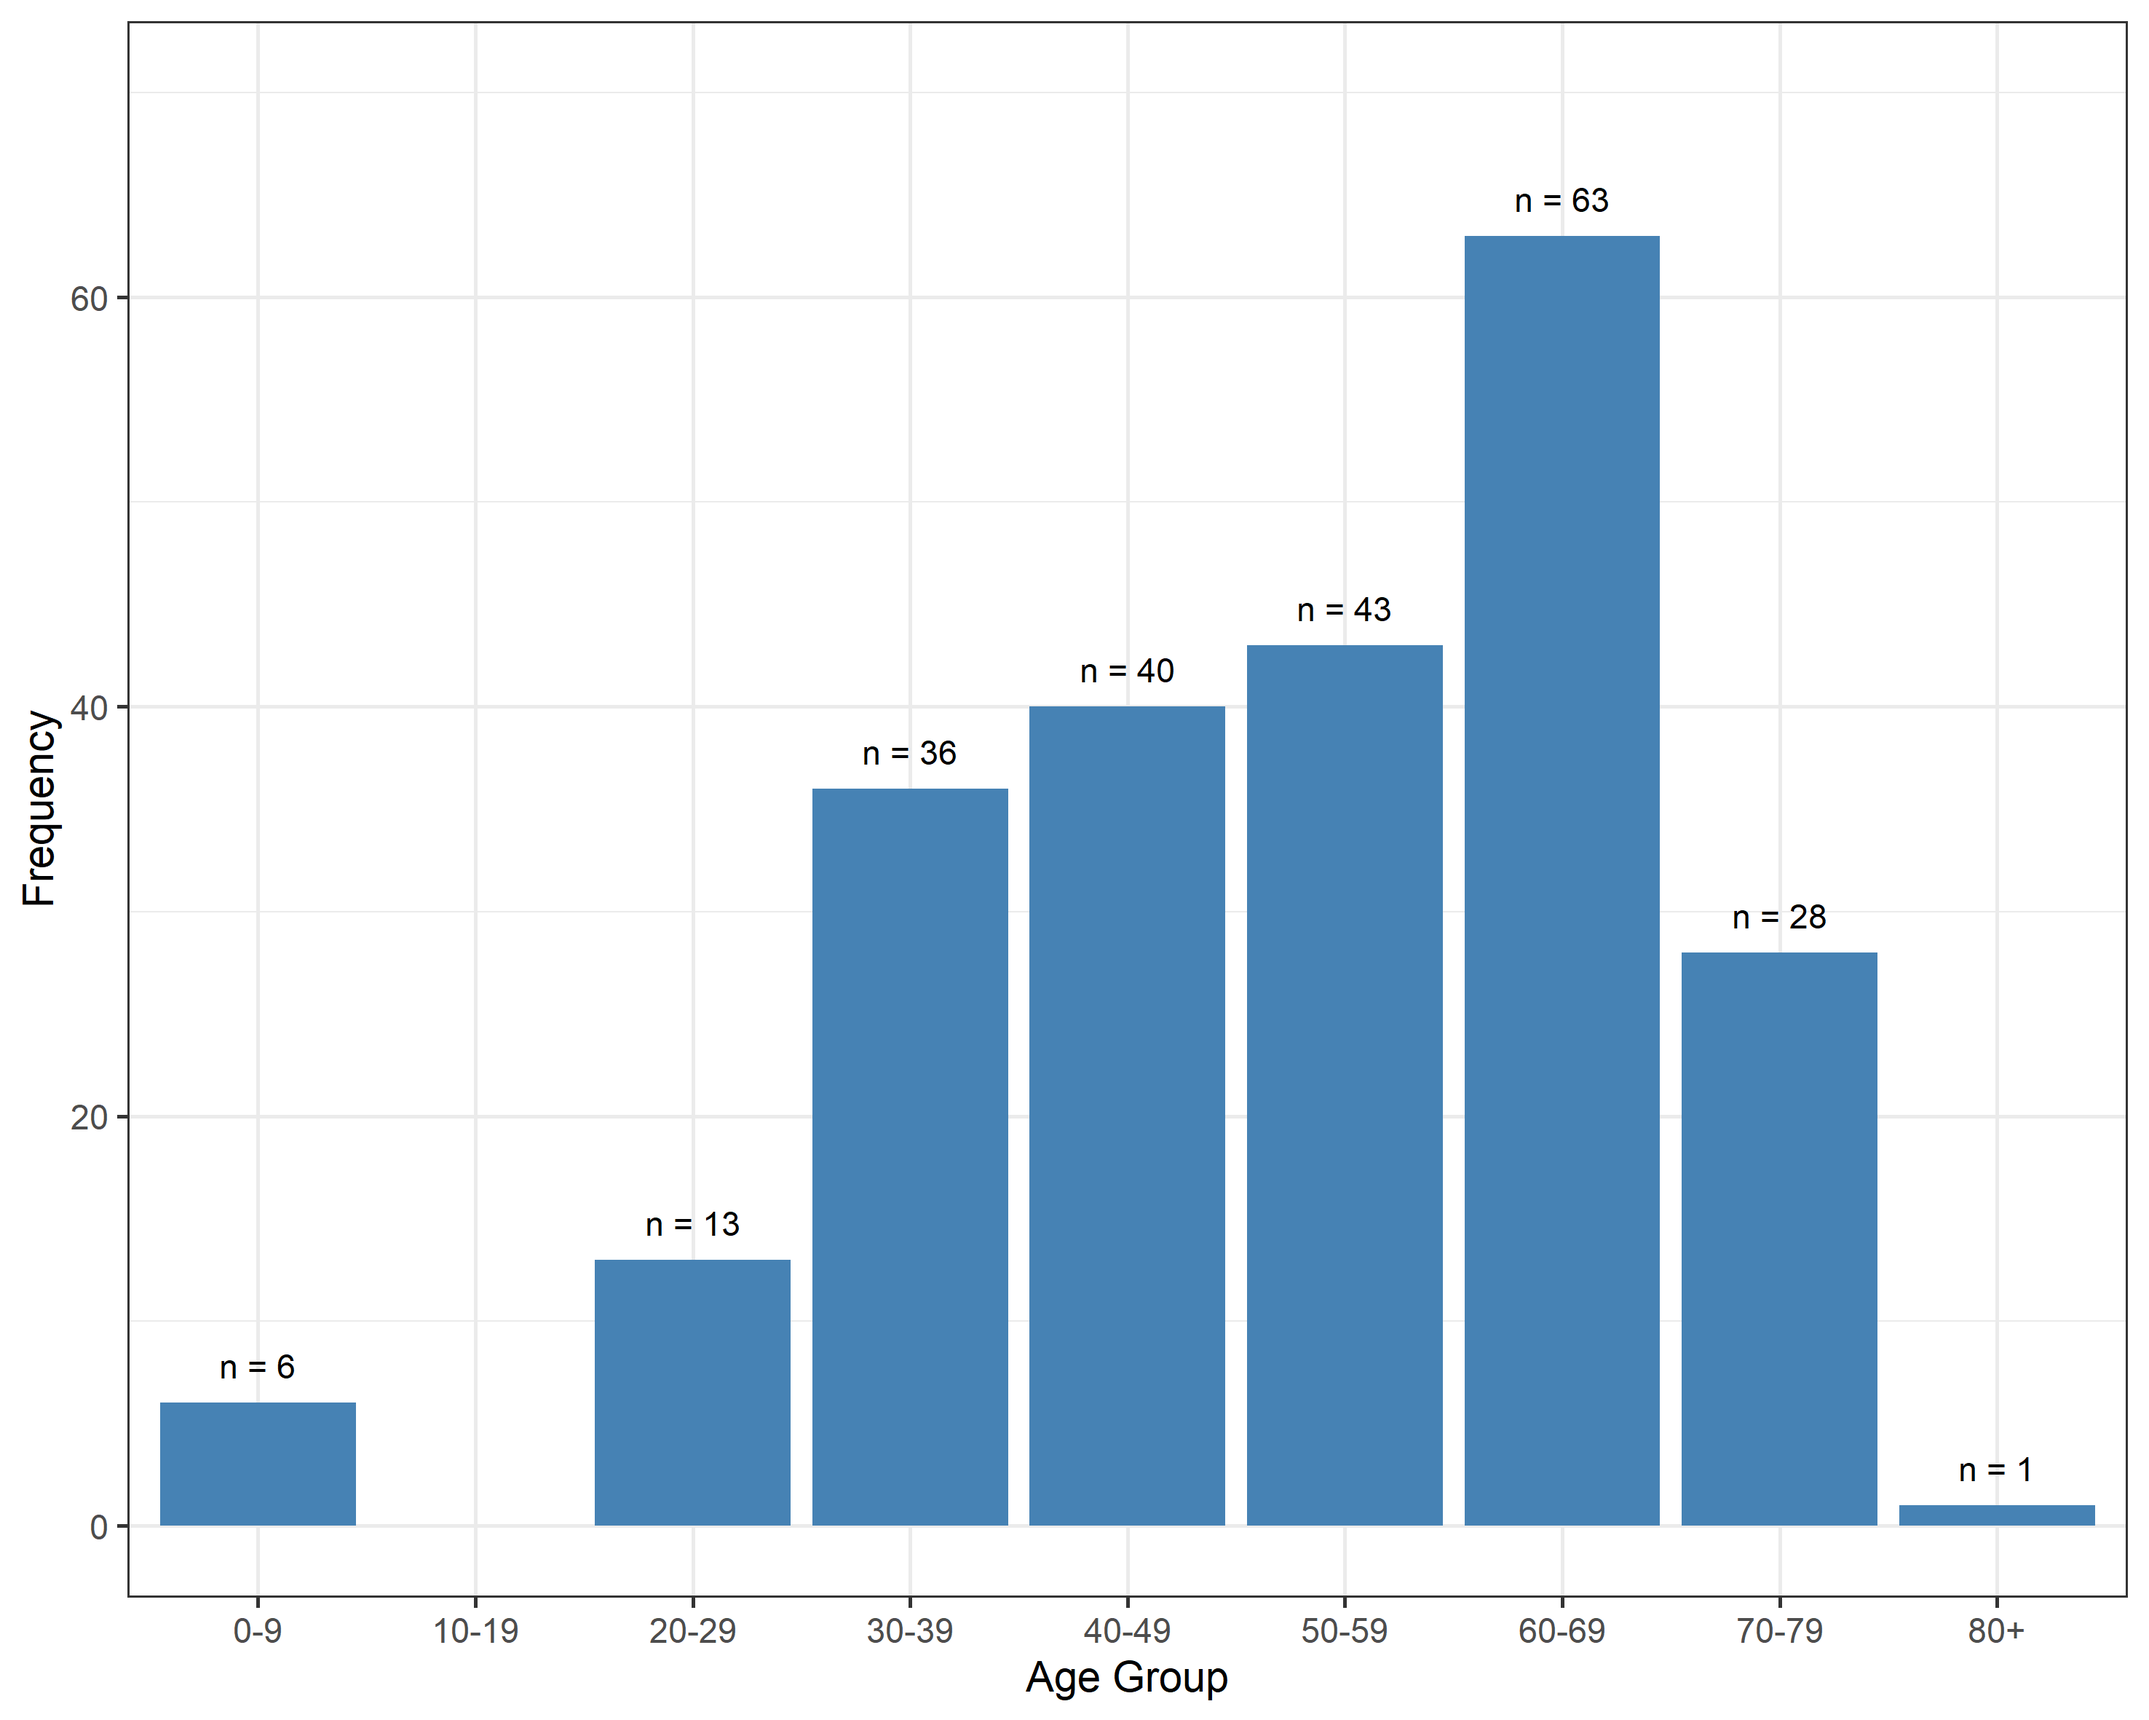
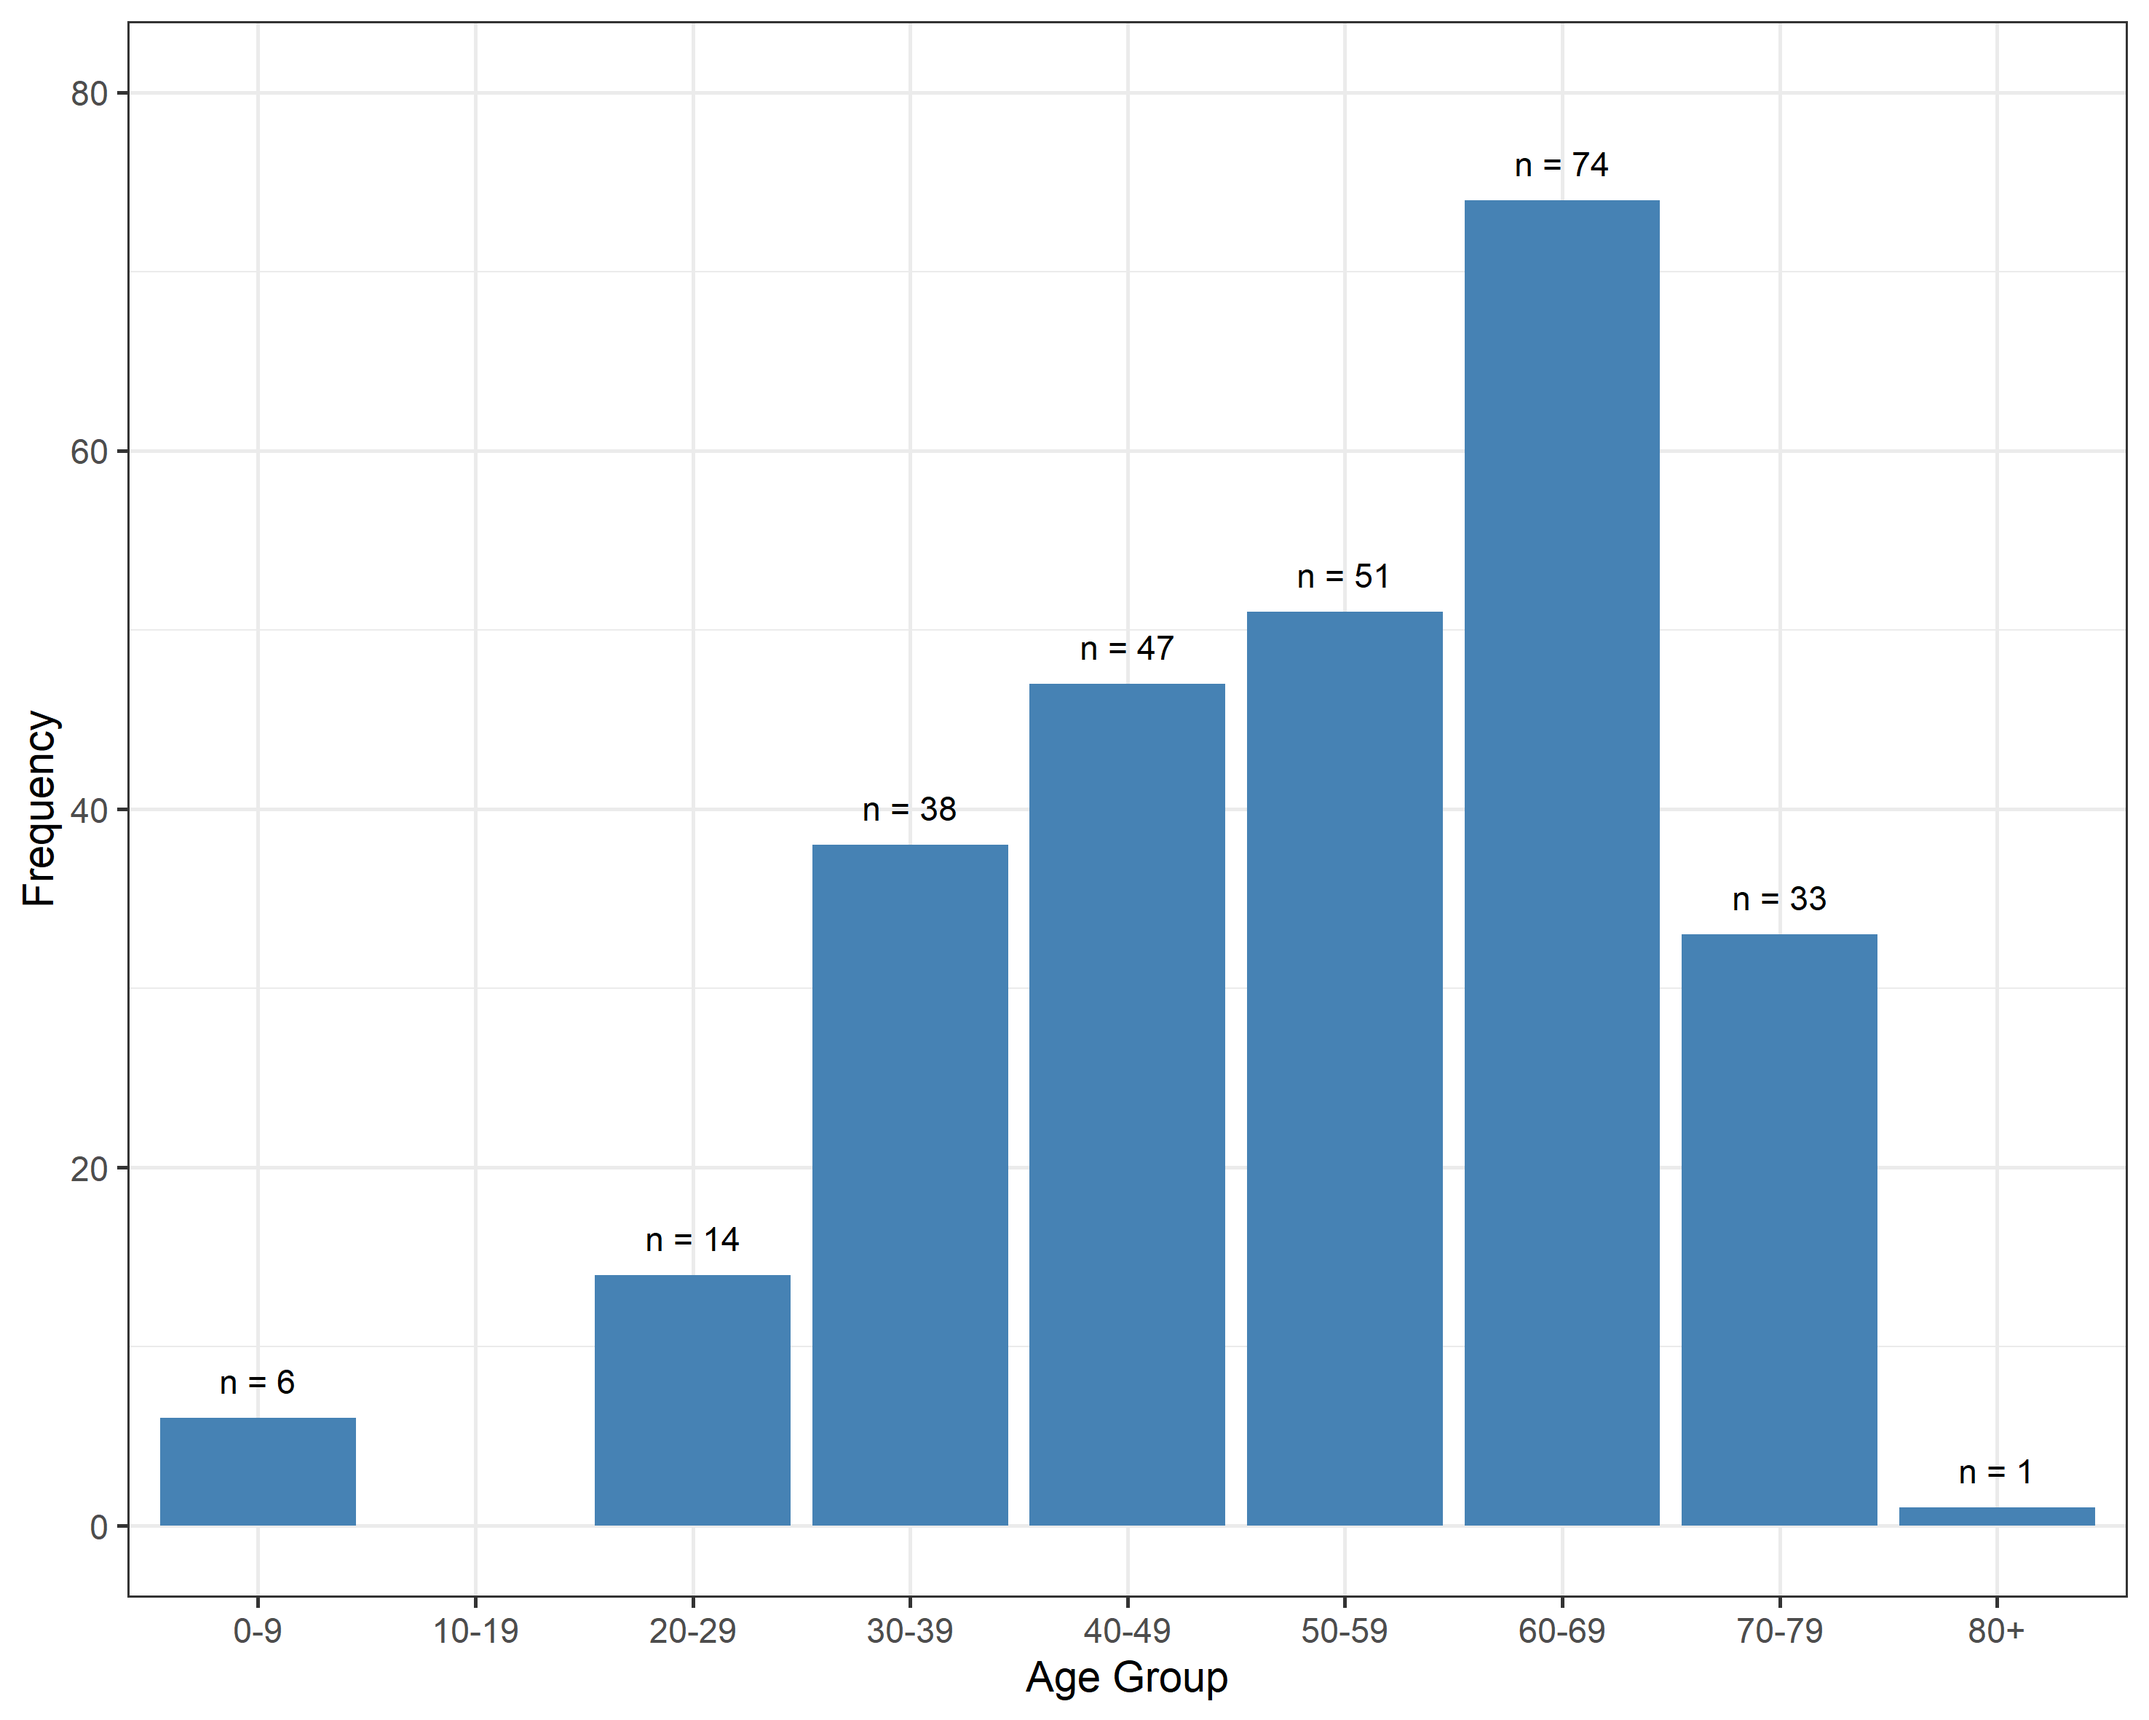
Modified results markdown

diff --git a/public/assets/locales/nl-be/markdowns/results-0.md b/public/assets/locales/nl-be/markdowns/results-0.md
@@ -1,13 +1,33 @@
-`Deze pagina is voor het laatst aangepast op 30.maart.2021 16:00.`
+`Deze pagina is voor het laatst aangepast op 31.maart.2021 16:00.`
 <br />
 
 Op deze pagina vindt u de actuele resultaten van Infectieradar.
 <br />
 
-Op 30 maart 2021 hadden we 230 deelnemers. 44.8% van de deelnemers is vrouw, en 55.2% is man.
-Een meerderheid van deelnemers (81.3%) rapporteerden dat ze nog geen Covid-19 hebben gehad. 4.3% van de deelnemers hebben in het verleden positief getest op Covid-19. 14.4% van de deelnemers hebben een sterk vermoeden dat ze Covid-19 hebben gehad.
+
+## Achtergrond Informatie
+
+Op 31 maart 2021 hadden we 264 deelnemers. 44.7% van de deelnemers is vrouw, en 55.3% is man. Een meerderheid van deelnemers (81.4%) rapporteerden dat ze nog geen Covid-19 hebben gehad. 4.2% van de deelnemers hebben in het verleden positief getest op Covid-19. 14.4% van de deelnemers hebben een sterk vermoeden dat ze Covid-19 hebben gehad.
 <br />
 
 ### Leeftijdsverdeling
 
 <img src="assets/images/agedistribution.png" width="100%">
+
+
+### Geografische verdeling
+
+<img src="assets/images/ParticipationMap.png" width="100%">
+
+
+<br />
+
+
+## Wekelijkse Symptomen
+
+Op 31 maart 2021 hadden we 219 ingevulde wekelijkse symptomen vragenlijsten van 194 deelnemers. In 63.5% van de vragenlijsten werd gerapporteerd dat er *geen symptomen* waren.
+
+### Gerapporteerde symptomen
+In de figuur hieronder geven we procentueel aan hoe vaak een bepaald symptoom is gerapporteerd in de vragenlijsten waarbij minstens één symptoom werd doorgegeven.
+
+<img src="assets/images/ReportedSymptoms_NL.png" width="100%">

diff --git a/public/assets/locales/en/markdowns/results-0.md b/public/assets/locales/en/markdowns/results-0.md
@@ -1,13 +1,34 @@
-`This page has been last updated at 30.mar.2021 16:00.`
-  
+`This page has been last updated at 31.mar.2021 16:00.`
 <br />
+
 On this page you will be able to see the latest results from the data collected by Infectieradar.be.
 <br />
 
-On March 30, 2021 we had 230 participants. 44.8% of the participants are female, and 55.2% male.
-The majority of the participants (81.3%) reported having no previous Covid-19 episode. 4.3% of the participants had a positive Covid-19 test in the past. 14.4% of the participants think they had a previous Covid-19 episode. 
+
+## Background Information
+
+On March 31, 2021 we had 264 participants. 44.7% of the participants are female, and 55.3% male. The majority of the participants (81.4%) reported having no previous Covid-19 episode. 4.2% of the participants had a positive Covid-19 test in the past. 14.4% of the participants think they had a previous Covid-19 episode.
 <br />
 
 ### Age distribution
 
 <img src="assets/images/agedistribution.png" width="100%">
+
+
+### Geographical distribution
+
+<img src="assets/images/ParticipationMap.png" width="100%">
+
+
+<br />
+
+
+## Weekly Symptoms
+
+On March 31, 2021 we had 219 completed weekly symptom questionnaires from 194 participants. In 63.5% of the symptom questionnaires it was reported that there were *no symptoms*.
+
+### Reported symptoms
+
+In the figure below we present how often (in percentages) a sympom was reported in questionnaires where at least one symptom was reported.
+
+<img src="assets/images/ReportedSymptoms_NL.png" width="100%">

diff --git a/public/assets/locales/de-be/markdowns/results-0.md b/public/assets/locales/de-be/markdowns/results-0.md
@@ -1,13 +1,34 @@
-`Diese Seite wurde zum letzten Mal angepasst am 30.mar.2021 16:00.`
-  
+`Diese Seite wurde zum letzten Mal angepasst am 31.mar.2021 16:00.`
 <br />
+
 Auf dieser Seite finden Sie die aktuellen Ergebnisse von Infectieradar.
 <br />
 
-On March 30, 2021 we had 230 participants. 44.8% of the participants are female, and 55.2% male.
-The majority of the participants (81.3%) reported having no previous Covid-19 episode. 4.3% of the participants had a positive Covid-19 test in the past. 14.4% of the participants think they had a previous Covid-19 episode. 
+
+## Background Information
+
+On March 31, 2021 we had 264 participants. 44.7% of the participants are female, and 55.3% male. The majority of the participants (81.4%) reported having no previous Covid-19 episode. 4.2% of the participants had a positive Covid-19 test in the past. 14.4% of the participants think they had a previous Covid-19 episode.
 <br />
 
 ### Age distribution
 
 <img src="assets/images/agedistribution.png" width="100%">
+
+
+### Geographical distribution
+
+<img src="assets/images/ParticipationMap.png" width="100%">
+
+
+<br />
+
+
+## Weekly Symptoms
+
+On March 31, 2021 we had 219 completed weekly symptom questionnaires from 194 participants. In 63.5% of the symptom questionnaires it was reported that there were *no symptoms*.
+
+### Reported symptoms
+
+In the figure below we present how often (in percentages) a sympom was reported in questionnaires where at least one symptom was reported.
+
+<img src="assets/images/ReportedSymptoms_NL.png" width="100%">

diff --git a/public/assets/locales/fr-be/markdowns/results-0.md b/public/assets/locales/fr-be/markdowns/results-0.md
@@ -1,13 +1,34 @@
 `Dernière modification de cette page le 30.mar.2021 16:00.`
-  
 <br />
+
 Cette page vous permet de consulter les résultats actuels de l’étude proposée par Infectieradar.
 <br />
 
-On March 30, 2021 we had 230 participants. 44.8% of the participants are female, and 55.2% male.
-The majority of the participants (81.3%) reported having no previous Covid-19 episode. 4.3% of the participants had a positive Covid-19 test in the past. 14.4% of the participants think they had a previous Covid-19 episode. 
+
+## Background Information
+
+On March 31, 2021 we had 264 participants. 44.7% of the participants are female, and 55.3% male. The majority of the participants (81.4%) reported having no previous Covid-19 episode. 4.2% of the participants had a positive Covid-19 test in the past. 14.4% of the participants think they had a previous Covid-19 episode.
 <br />
 
 ### Age distribution
 
 <img src="assets/images/agedistribution.png" width="100%">
+
+
+### Geographical distribution
+
+<img src="assets/images/ParticipationMap.png" width="100%">
+
+
+<br />
+
+
+## Weekly Symptoms
+
+On March 31, 2021 we had 219 completed weekly symptom questionnaires from 194 participants. In 63.5% of the symptom questionnaires it was reported that there were *no symptoms*.
+
+### Reported symptoms
+
+In the figure below we present how often (in percentages) a sympom was reported in questionnaires where at least one symptom was reported.
+
+<img src="assets/images/ReportedSymptoms_NL.png" width="100%">
